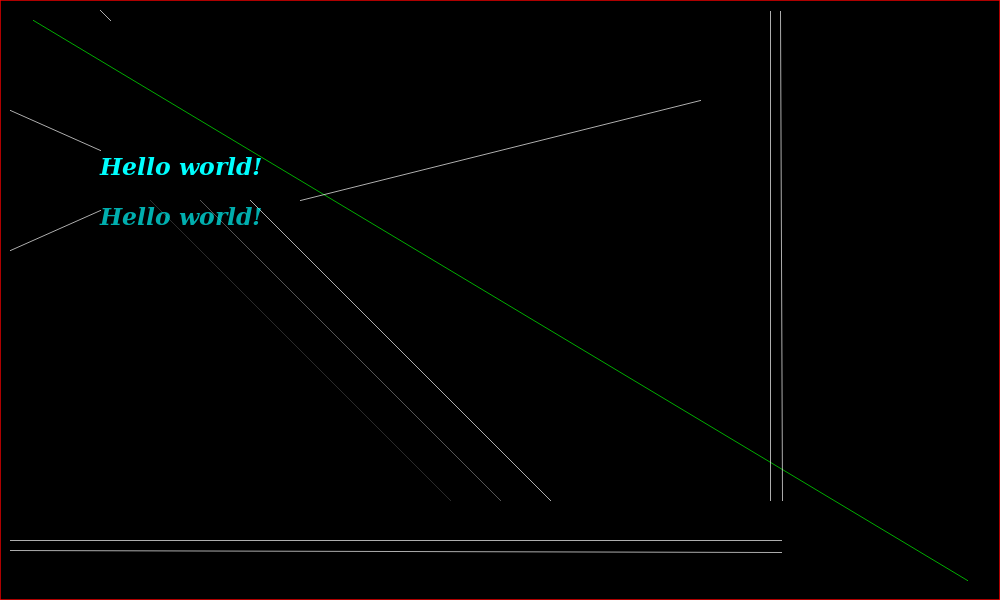
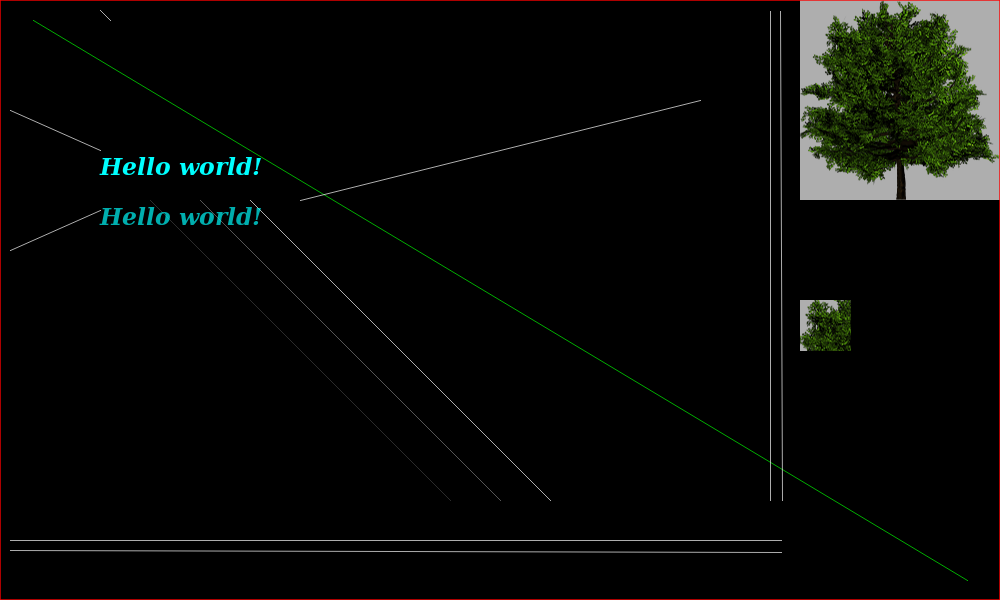
Added the test for drawImage()

Changed region(s): [[0.775, 0.0, 1.0, 0.36], [0.775, 0.48, 0.868, 0.6]]

diff --git a/src/Pt-Gfx/tests/ImagePainterTest2_Draw.cpp b/src/Pt-Gfx/tests/ImagePainterTest2_Draw.cpp
@@ -12,6 +12,9 @@ static void testDrawLine(const char* title, Image& image, Painter& painter)
     painter.setClip( RectF (0, image.width() - 1, 0, image.height() - 1) );
 #endif
 
+    painter.drawImage(PointF(image.width() - textureWithWhiteBackground.width(),   0), textureWithWhiteBackground);
+    painter.drawImage(PointF(image.width() - textureWithWhiteBackground.width(), 300), textureWithWhiteBackground, RectF(20, 70, 20, 70));
+
     painter.setPen( Color::fromRgb8(255, 0, 0, 175) );
 
     painter.drawLine( PointF(  0,   0), PointF(999,   0) );

diff --git a/src/Pt-Gfx/Rasterizer2.cpp b/src/Pt-Gfx/Rasterizer2.cpp
@@ -168,6 +168,7 @@ void Rasterizer2::strokeText( const Point& to, const Pt::String& text )
 
 void Rasterizer2::fillEllipseNoAA(const Point& topLeft, const Size& size)
 {
+    // ### TODO: _currentClip !!! ###
 
     // Update the gradient as needed
     if(_isGradient)
